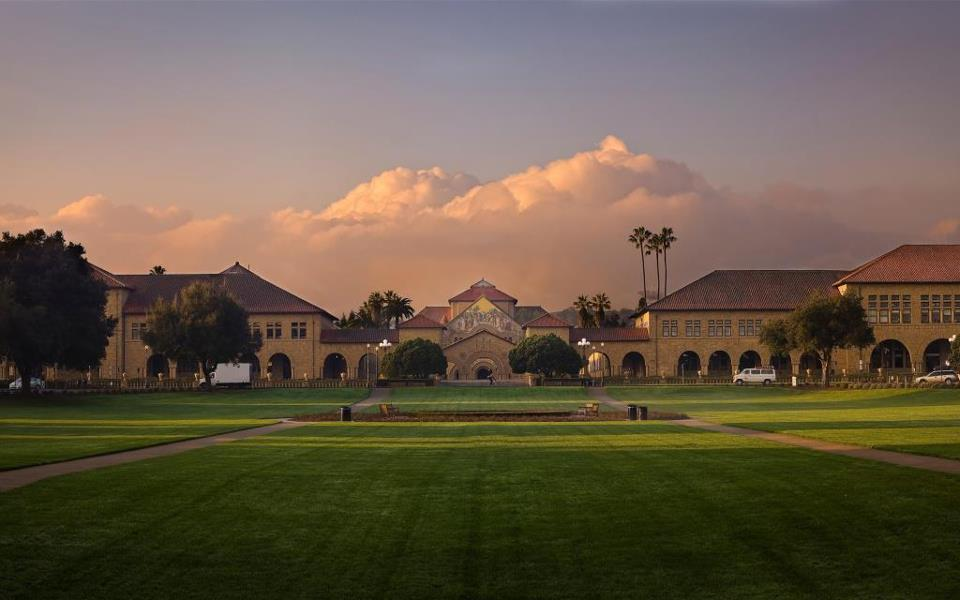
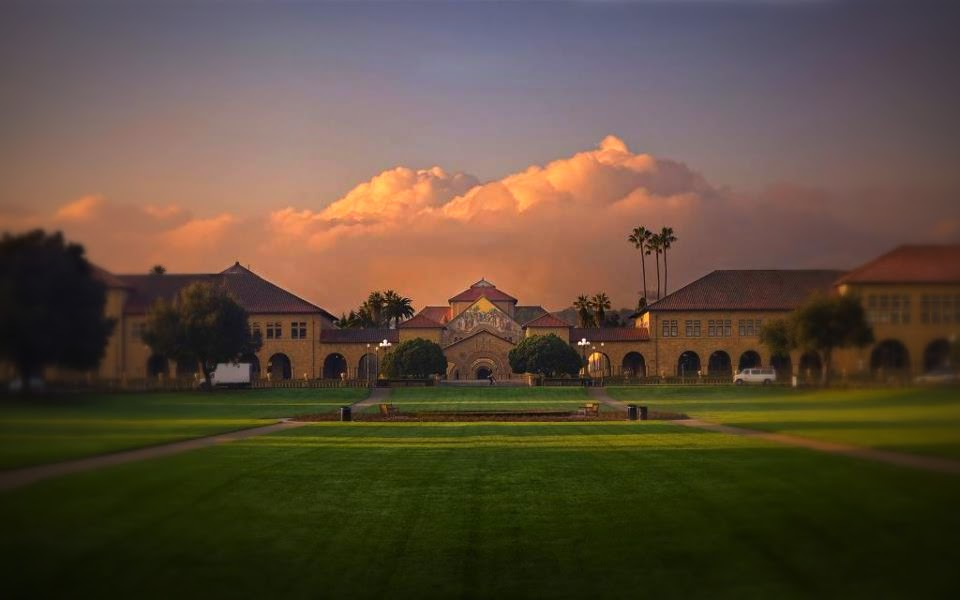
modified stanford image and text color to white

diff --git a/index.html b/index.html
@@ -29,8 +29,8 @@
                 <div class="parallax__layer parallax__layer--back"></div>
                 <div class="parallax__layer parallax__layer--base">
                     <div class="centered">
-                        <h1>Hi! I'm Arzav.</h1>
-                        <p class="lead">This website is under construction. Inconvenience is regretted.</p>
+                        <h1 class="white">Hi! I'm Arzav.</h1>
+                        <p class="lead white">This website is under construction. Inconvenience is regretted.</p>
                         <ul class="list-inline">
                             <li><a href="http://www.facebook.com/arzavj"><i class="fa fa-facebook fa-3x"></i></a></li>
                             <li>

diff --git a/css/main.css b/css/main.css
@@ -32,3 +32,7 @@ a:hover {
   -webkit-transform: translate(-50%, -50%);
   transform: translate(-50%, -50%);
 }
+
+.white {
+  color: white;
+}
